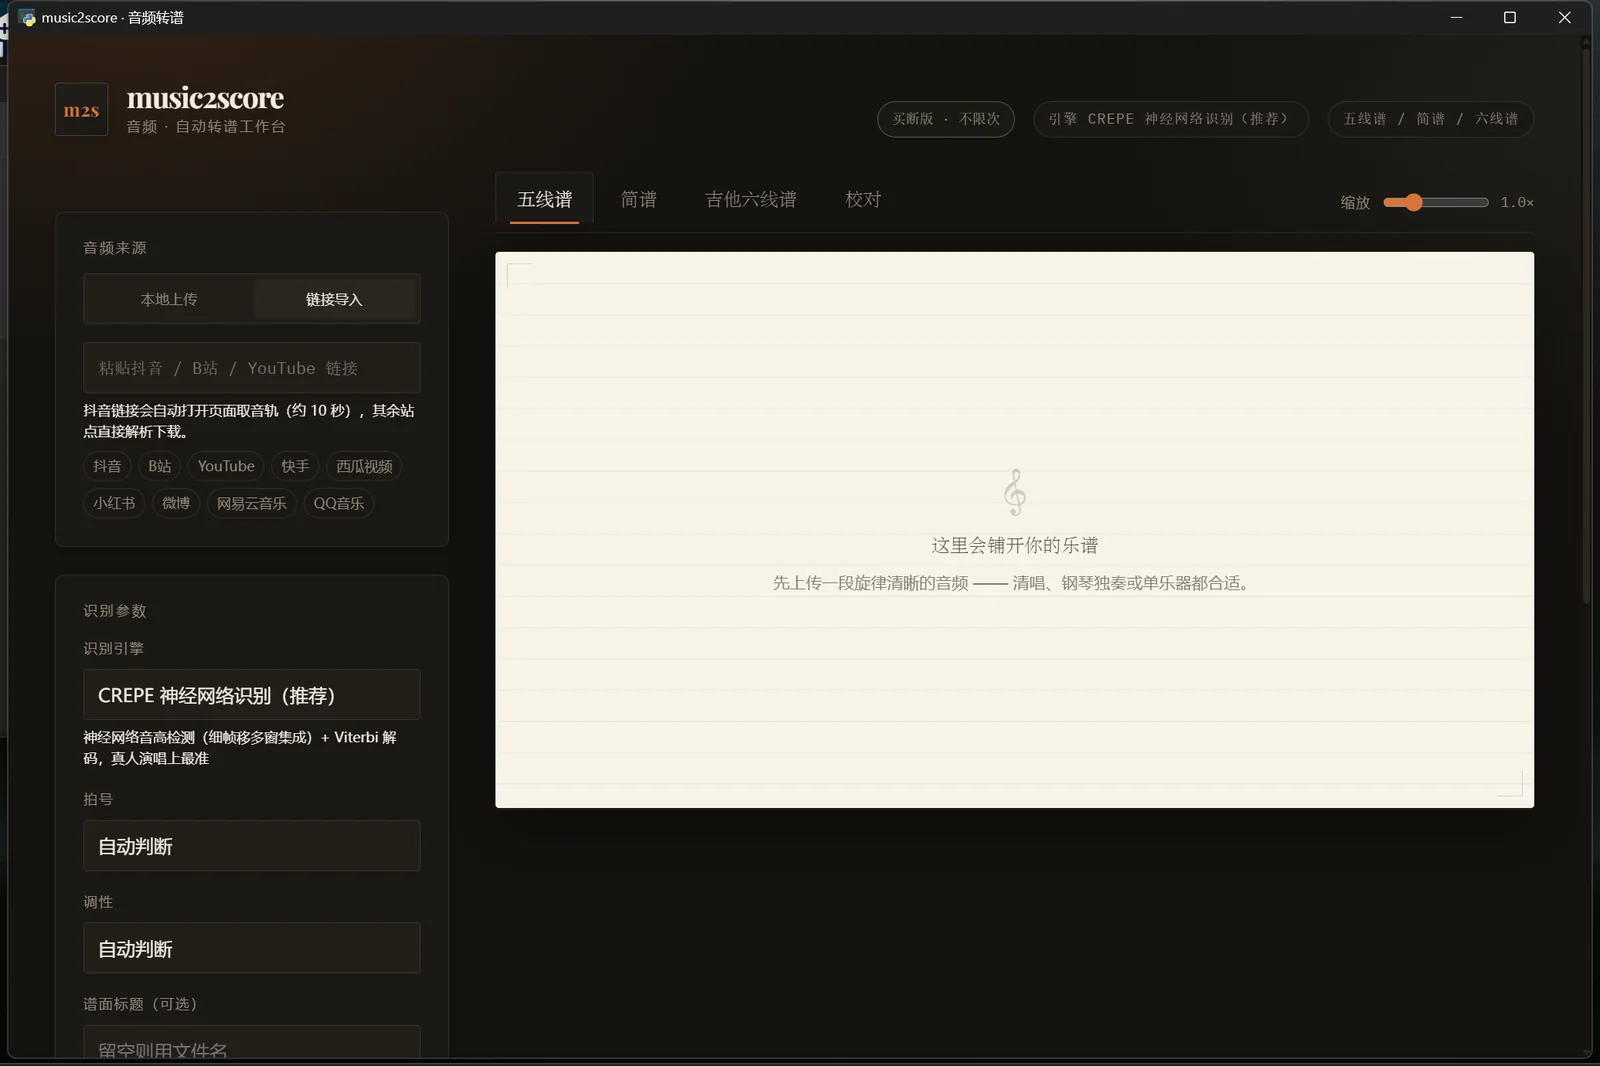
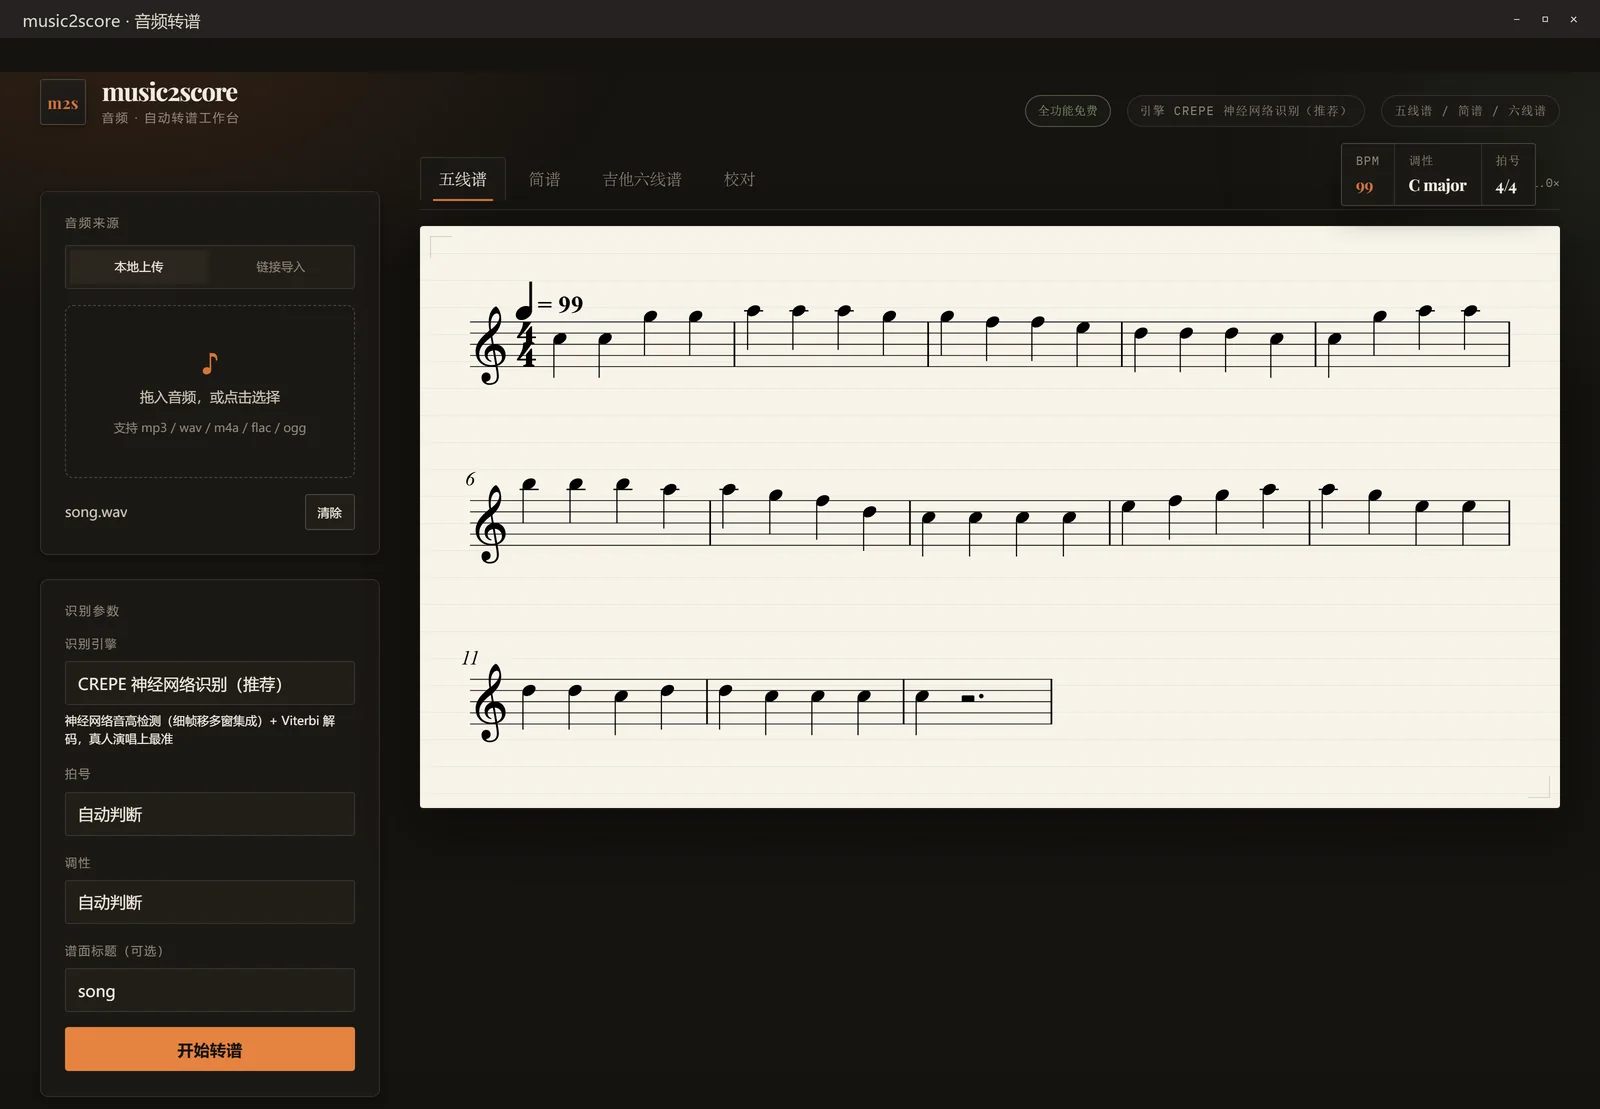
重拍全部截图：完整取景不再裁切 UI
- 新增 tests/shot_site.py：1600 宽视口 + 整页截图 + 按「识别参数」卡底边裁切
- 侧栏完整收尾、纸张完整、链接导入在转谱完成后取景（纸面有内容）
- desktop.webp 标题栏合成；隐藏「手机版安装」入口（M2S_DESKTOP=1）
- 截图廊取消 aspect-ratio 裁切，按原始比例完整显示
- README 用 PNG 同步替换并压至 1600 宽（~1MB→~300KB/张）

diff --git a/docs/index.html b/docs/index.html
@@ -74,7 +74,7 @@
 
       <div class="hero-visual reveal" data-delay="2">
         <div class="shot-frame">
-          <img src="shots/staff.webp" width="1600" height="1055" alt="music2score 工作台：左侧上传区，右侧生成好的五线谱" fetchpriority="high">
+          <img src="shots/staff.webp" width="1600" height="1071" alt="music2score 工作台：左侧上传区，右侧生成好的五线谱" fetchpriority="high">
         </div>
         <div class="hero-badge"><i></i><span><b>本机运行</b> · 音频不上传</span></div>
       </div>
@@ -153,17 +153,17 @@
         </div>
 
         <div class="panel is-active" id="panel-staff" role="tabpanel" aria-labelledby="tab-staff">
-          <div class="paper-shot"><img src="shots/staff.webp" width="1600" height="1055" alt="自动生成的五线谱，带调号、拍号与连音线" loading="lazy"></div>
+          <div class="paper-shot"><img src="shots/staff.webp" width="1600" height="1071" alt="自动生成的五线谱，带调号、拍号与连音线" loading="lazy"></div>
           <p class="panel-note">Verovio 排版的五线谱，带调号、拍号、临时记号与音符时值；支持导出 MusicXML，可直接导入 Sibelius、MuseScore、Dorico 继续排版。</p>
         </div>
 
         <div class="panel" id="panel-jianpu" role="tabpanel" aria-labelledby="tab-jianpu">
-          <div class="paper-shot"><img src="shots/jianpu.webp" width="1600" height="1055" alt="自动生成的简谱，带调号、拍号与节奏线" loading="lazy"></div>
+          <div class="paper-shot"><img src="shots/jianpu.webp" width="1600" height="1071" alt="自动生成的简谱，带调号、拍号与节奏线" loading="lazy"></div>
           <p class="panel-note">简谱按首调记法生成，含调号 <span style="font-family:var(--mono)">1=C</span>、拍号、附点与延音线，A4 直出可打印。</p>
         </div>
 
         <div class="panel" id="panel-tab" role="tabpanel" aria-labelledby="tab-tab">
-          <div class="paper-shot"><img src="shots/tab.webp" width="1600" height="1055" alt="自动生成的吉他六线谱，标注把位与品位" loading="lazy"></div>
+          <div class="paper-shot"><img src="shots/tab.webp" width="1600" height="1071" alt="自动生成的吉他六线谱，标注把位与品位" loading="lazy"></div>
           <p class="panel-note">六线谱按吉他把位自动排布，标出品丝数字与换把位置，弹唱伴奏可以直接照着弹。</p>
         </div>
       </div>
@@ -232,15 +232,15 @@
       </div>
       <div class="gallery reveal">
         <figure data-full="shots/editor.webp">
-          <img src="shots/editor.webp" width="1600" height="1005" alt="校对编辑器界面" loading="lazy">
+          <img src="shots/editor.webp" width="1600" height="998" alt="校对编辑器界面" loading="lazy">
           <figcaption>校对编辑器 · 拖动改音高、改时值</figcaption>
         </figure>
         <figure data-full="shots/url.webp">
-          <img src="shots/url.webp" width="1600" height="1055" alt="粘贴链接导入面板" loading="lazy">
+          <img src="shots/url.webp" width="1600" height="998" alt="粘贴链接导入面板" loading="lazy">
           <figcaption>链接导入 · 抖音 / B 站一键提取</figcaption>
         </figure>
         <figure class="wide" data-full="shots/desktop.webp">
-          <img src="shots/desktop.webp" width="1600" height="1066" alt="桌面版窗口" loading="lazy">
+          <img src="shots/desktop.webp" width="1600" height="1109" alt="桌面版窗口" loading="lazy">
           <figcaption>桌面版 · 独立窗口，没有地址栏</figcaption>
         </figure>
       </div>

diff --git a/docs/styles/site.css b/docs/styles/site.css
@@ -534,6 +534,7 @@ h1, h2, h3 { font-weight: 500; margin: 0; line-height: 1.15; }
 .gallery figure {
   position: relative;
   margin: 0;
+  align-self: start;
   border-radius: var(--radius-sm);
   overflow: hidden;
   border: 1px solid var(--border);
@@ -542,7 +543,8 @@ h1, h2, h3 { font-weight: 500; margin: 0; line-height: 1.15; }
   transition: transform 0.35s var(--ease), border-color 0.3s;
 }
 .gallery figure:hover { transform: translateY(-3px); border-color: var(--border-strong); }
-.gallery img { width: 100%; aspect-ratio: 16 / 11; object-fit: cover; }
+/* 按原始比例完整显示，不裁切 UI 边缘 */
+.gallery img { width: 100%; height: auto; }
 .gallery figcaption {
   position: absolute;
   inset: auto 0 0 0;

diff --git a/music2score/tests/shot_site.py b/music2score/tests/shot_site.py
@@ -1,0 +1,123 @@
+"""产品站点用图重拍（v2）：整页截图 + 按侧栏底边裁切，UI 完整无切断。
+
+产出 docs/shot_{url_panel,staff,jianpu,tab,editor,desktop}.png
+用法：py -3.10 tests/shot_site.py [BASE]
+"""
+import os
+import sys
+import time
+
+from PIL import Image
+from playwright.sync_api import sync_playwright
+
+BASE = sys.argv[1] if len(sys.argv) > 1 else "http://127.0.0.1:8180"
+ROOT = os.path.dirname(os.path.dirname(os.path.abspath(__file__)))
+OUT = os.path.join(ROOT, "docs")
+os.makedirs(OUT, exist_ok=True)
+
+VIEW = {"width": 1600, "height": 1000}
+
+
+def shot_cropped(page, name):
+    """整页截图后，裁到「识别参数」卡片底边 + 半个间隙：侧栏完整收尾、纸张完整。"""
+    full = os.path.join(OUT, f"_{name}_full.png")
+    page.screenshot(path=full, full_page=True)
+    bottom = page.evaluate(
+        """() => {
+        const el = document.querySelector('[aria-labelledby="t-param"]');
+        if (!el) return document.documentElement.scrollHeight;
+        return el.getBoundingClientRect().bottom + window.scrollY + 12;
+    }"""
+    )
+    im = Image.open(full)
+    scale = im.size[0] / VIEW["width"]  # device_scale_factor
+    h = min(im.size[1], int(bottom * scale))
+    im.crop((0, 0, im.size[0], h)).save(os.path.join(OUT, f"shot_{name}.png"))
+    os.remove(full)
+    print(f"→ shot_{name}  ({im.size[0]}x{h}, ratio {im.size[0]/h:.2f})")
+
+
+def main() -> int:
+    with sync_playwright() as p:
+        browser = p.chromium.launch()
+        ctx = browser.new_context(viewport=VIEW, device_scale_factor=2, locale="zh-CN")
+        page = ctx.new_page()
+        errors = []
+        page.on("console", lambda m: errors.append(m.text) if m.type == "error" else None)
+        page.on("pageerror", lambda e: errors.append(str(e)))
+
+        page.goto(BASE, wait_until="networkidle")
+        page.wait_for_timeout(500)
+
+        # ---- 本地上传转谱 ----
+        page.set_input_files("#fileInput", os.path.join(ROOT, "data", "song.wav"))
+        page.wait_for_function("!document.querySelector('#runBtn').disabled")
+        page.click("#runBtn")
+        t0 = time.time()
+        while time.time() - t0 < 300:
+            stage = page.inner_text("#progressStage")
+            if stage == "完成":
+                break
+            if stage == "失败":
+                print("转谱失败：", page.inner_text("#resultBody")[:200])
+                return 1
+            page.wait_for_timeout(800)
+        page.wait_for_selector("#paper svg", timeout=30000)
+        page.wait_for_timeout(900)
+
+        for view in ("staff", "jianpu", "tab"):
+            page.evaluate(f"document.querySelector('#tab-{view}').click()")
+            page.wait_for_timeout(1000)
+            shot_cropped(page, view)
+
+        # ---- 链接导入面板（转谱完成后拍，纸面有内容）----
+        page.evaluate("document.querySelector('.source-btn[data-source=\"url\"]').click()")
+        page.wait_for_timeout(300)
+        page.fill("#urlInput", "https://www.douyin.com/video/7639569910125595520")
+        page.wait_for_timeout(200)
+        shot_cropped(page, "url_panel")
+
+        # ---- 校对编辑器 ----
+        page.evaluate("document.querySelector('#tab-edit').click()")
+        page.wait_for_selector(".ed-note", timeout=20000)
+        page.wait_for_timeout(700)
+        shot_cropped(page, "editor")
+
+        if errors:
+            print("前端报错:", errors[:3])
+        browser.close()
+
+    # ---- 桌面版：staff 图合成 Windows 标题栏 ----
+    src = Image.open(os.path.join(OUT, "shot_staff.png")).convert("RGB")
+    w, h = src.size
+    bar = int(w * 0.024)
+    canvas = Image.new("RGB", (w, h + bar), "#242220")
+    canvas.paste(src, (0, bar))
+    d = ImageDraw = None  # noqa
+    from PIL import ImageDraw
+    d = ImageDraw.Draw(canvas)
+    try:
+        from PIL import ImageFont
+        font = ImageFont.truetype("C:/Windows/Fonts/msyh.ttc", int(bar * 0.44))
+    except OSError:
+        font = None
+    if font:
+        d.text((int(bar * 0.6), (bar - int(bar * 0.44)) // 2 - 2),
+               "music2score · 音频转谱", font=font, fill="#ddd6c8")
+    cy = bar // 2
+    for i in range(3):
+        bx = w - int(bar * 0.7) - i * int(bar * 0.75)
+        if i == 0:      # 最右：关闭 ✕
+            d.line((bx - 5, cy - 5, bx + 5, cy + 5), fill="#ddd6c8", width=2)
+            d.line((bx - 5, cy + 5, bx + 5, cy - 5), fill="#ddd6c8", width=2)
+        elif i == 1:    # 最大化 □
+            d.rectangle((bx - 5, cy - 5, bx + 5, cy + 5), outline="#c9c2b4", width=2)
+        else:           # 最小化 ─
+            d.line((bx - 5, cy, bx + 5, cy), fill="#c9c2b4", width=2)
+    canvas.save(os.path.join(OUT, "shot_desktop.png"))
+    print(f"→ shot_desktop  ({canvas.size[0]}x{canvas.size[1]})")
+    return 0
+
+
+if __name__ == "__main__":
+    raise SystemExit(main())
